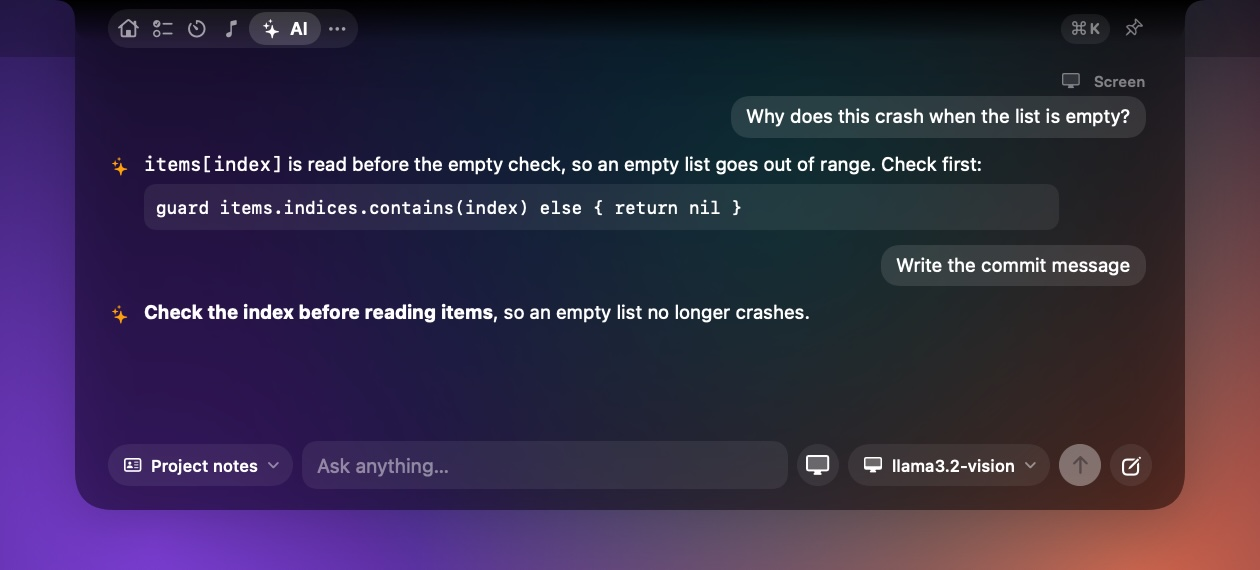
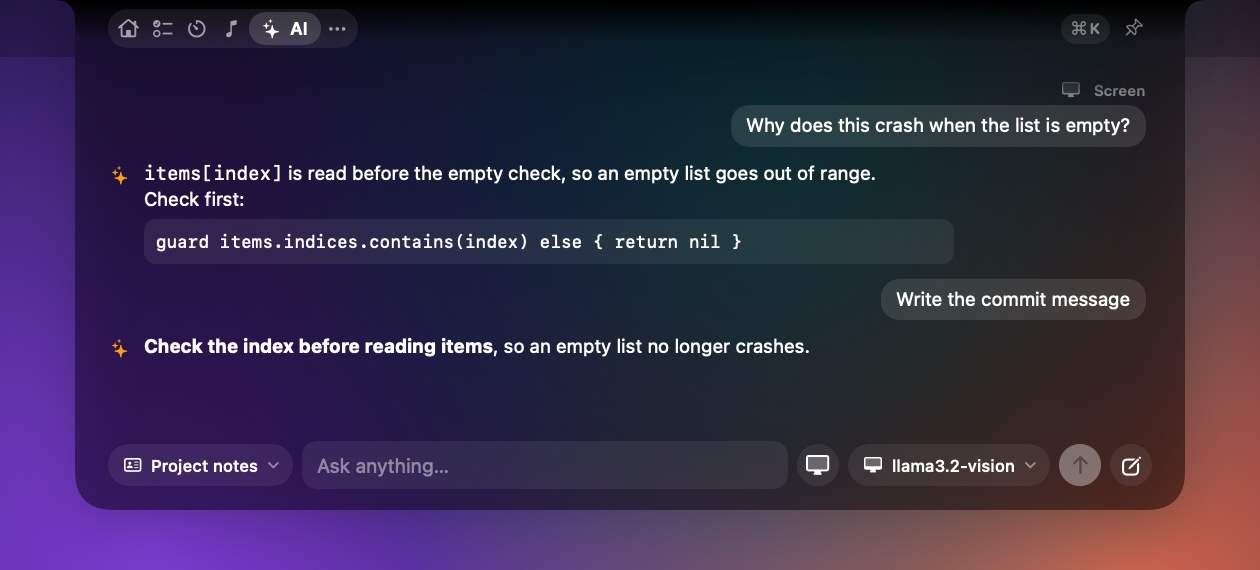
Polish the AI chat for the wide notch
- The model chip is wide enough to keep a long model name readable.
- Answers wrap at about 80 characters and your messages at 440 points,
  instead of running the full width.
- Messages fade out as they scroll up under the tabs.
- The welcome screen spreads across the width: a greeting naming the
  model, and four cards for the shortcut, asking about the screen, the
  active context and where messages go.
- "Try again" and "Set up in Settings" in sentence case, like the rest
  of the notch.
- A debug helper renders the welcome screen without touching your chat.

diff --git a/Sources/Xotch/Modules/AI/AIModule.swift b/Sources/Xotch/Modules/AI/AIModule.swift
@@ -21,7 +21,7 @@ private struct AIChatView: View {
             EmptyStateView(symbol: "sparkles",
                            title: "Connect an AI",
                            message: "Run a model on this Mac with Ollama or LM Studio, or add an API key for Claude, OpenAI or Gemini. Keys stay in your Keychain.",
-                           buttonTitle: "Set Up in Settings") { showSettings() }
+                           buttonTitle: "Set up in Settings") { showSettings() }
         } else {
             VStack(spacing: 8) {
                 Conversation(showSettings: showSettings)
@@ -59,6 +59,15 @@ private struct Conversation: View {
                         Color.clear.frame(height: 1).id("bottom")
                     }
                     .padding(.trailing, 4)
+                    .padding(.top, 6)
+                }
+                // Text scrolling up fades out before it reaches the tabs.
+                .mask {
+                    VStack(spacing: 0) {
+                        LinearGradient(colors: [.clear, .black], startPoint: .top, endPoint: .bottom)
+                            .frame(height: 14)
+                        Color.black
+                    }
                 }
                 .onAppear { proxy.scrollTo("bottom", anchor: .bottom) }
                 .onChange(of: chat.messages.last?.text) { _, _ in proxy.scrollTo("bottom", anchor: .bottom) }
@@ -70,50 +79,70 @@ private struct Conversation: View {
     }
 }
 
+/// Before the first message: what the chat can do, as four cards across
+/// the width, beside a short greeting naming the model in use.
 private struct Welcome: View {
     private var contexts: AIContextStore { .shared }
     private var providers: AIProviderStore { .shared }
 
     var body: some View {
         HStack(alignment: .top, spacing: 18) {
-            Image(systemName: "sparkles")
-                .font(.system(size: 28, weight: .medium))
-                .foregroundStyle(Theme.accent)
-                .frame(width: 44)
             VStack(alignment: .leading, spacing: 8) {
+                Image(systemName: "sparkles")
+                    .font(.system(size: 26, weight: .medium))
+                    .foregroundStyle(Theme.accent)
                 Text("Ask anything")
-                    .font(.system(size: 15, weight: .semibold))
-                VStack(alignment: .leading, spacing: 4) {
-                    hint("keyboard", "⌘⇧Space opens this chat from any app.")
-                    hint("display", "⌘⇧↩ also sends what's on your screen. So does the screen button below.")
-                    if let context = contexts.active {
-                        hint("person.text.rectangle", "Answers use your “\(context.name)” context.")
-                    } else {
-                        hint("person.text.rectangle", "Add a context — a resume, job description or notes — to tailor answers.")
-                    }
-                    if let provider = providers.active {
-                        hint(provider.isLocal ? "lock" : "cloud",
-                             provider.isLocal ? "\(provider.model) runs locally; nothing goes to the internet."
-                                 : "Messages go to \(provider.name).")
-                    }
+                    .font(.system(size: 18, weight: .semibold))
+                if let provider = providers.active {
+                    Label(provider.model, systemImage: provider.isLocal ? "lock.fill" : "cloud.fill")
+                        .font(.system(size: 11, weight: .medium))
+                        .foregroundStyle(Theme.secondaryInk)
+                        .lineLimit(1)
+                        .truncationMode(.middle)
                 }
             }
-            Spacer(minLength: 0)
+            .frame(width: 150, alignment: .leading)
+            .padding(.top, 4)
+            LazyVGrid(columns: [GridItem(.flexible(), spacing: 10), GridItem(.flexible(), spacing: 10)], spacing: 10) {
+                card("keyboard", "From any app", "⌘⇧Space opens this chat wherever you are.")
+                card("display", "About your screen", "⌘⇧↩, or the screen button below, sends what's on screen with your question.")
+                if let context = contexts.active {
+                    card("person.text.rectangle", "Using “\(context.name)”", "Answers draw on this context. Switch it from the menu below.")
+                } else {
+                    card("person.text.rectangle", "Add a context", "A resume, job description or notes, sent with every question.")
+                }
+                if let provider = providers.active {
+                    card(provider.isLocal ? "lock" : "cloud",
+                         provider.isLocal ? "Stays on this Mac" : "Sent to \(provider.name)",
+                         provider.isLocal ? "\(provider.model) runs locally; nothing goes to the internet."
+                             : "Your messages go to \(provider.name) to be answered.")
+                } else {
+                    card("cpu", "Pick a model", "Choose one from the menu below.")
+                }
+            }
         }
-        .padding(.top, 6)
         .frame(maxWidth: .infinity, maxHeight: .infinity, alignment: .topLeading)
     }
 
-    private func hint(_ symbol: String, _ text: String) -> some View {
-        HStack(spacing: 8) {
-            Image(systemName: symbol)
-                .font(.system(size: 10, weight: .semibold))
-                .foregroundStyle(Theme.tertiaryInk)
-                .frame(width: 14)
+    private func card(_ symbol: String, _ title: String, _ text: String) -> some View {
+        VStack(alignment: .leading, spacing: 4) {
+            HStack(spacing: 6) {
+                Image(systemName: symbol)
+                    .font(.system(size: 11, weight: .semibold))
+                    .foregroundStyle(Theme.accent)
+                    .frame(width: 14)
+                Text(title)
+                    .font(.system(size: 12, weight: .semibold))
+                    .lineLimit(1)
+            }
             Text(text)
-                .font(.system(size: 12))
+                .font(.system(size: 11))
                 .foregroundStyle(Theme.secondaryInk)
+                .fixedSize(horizontal: false, vertical: true)
         }
+        .padding(10)
+        .frame(maxWidth: .infinity, minHeight: 74, alignment: .topLeading)
+        .background(Theme.fill, in: RoundedRectangle(cornerRadius: 12, style: .continuous))
     }
 }
 
@@ -139,6 +168,7 @@ private struct MessageRow: View {
                         .padding(.vertical, 6)
                         .background(Theme.raisedFill, in: RoundedRectangle(cornerRadius: 12, style: .continuous))
                 }
+                .frame(maxWidth: 440, alignment: .trailing)
             }
         } else {
             HStack(alignment: .top, spacing: 8) {
@@ -157,10 +187,12 @@ private struct MessageRow: View {
                             .foregroundStyle(message.isError ? Theme.secondaryInk : Theme.ink)
                     }
                     if message.isError {
-                        Button("Try Again") { AIChatService.shared.retry() }
+                        Button("Try again") { AIChatService.shared.retry() }
                             .buttonStyle(PillButtonStyle(prominent: false))
                     }
                 }
+                // About 80 characters a line: easier to read than the full width.
+                .frame(maxWidth: 540, alignment: .leading)
                 Spacer(minLength: 20)
                 Button { AIChatService.shared.copy(message) } label: { Image(systemName: "doc.on.doc") }
                     .buttonStyle(IconButtonStyle(size: 22))
@@ -429,7 +461,8 @@ private struct Chip: View {
             .foregroundStyle(dimmed ? Theme.secondaryInk : Theme.ink)
             .padding(.horizontal, 9)
             .frame(height: 28)
-            .frame(maxWidth: 150)
+            // Wide enough that a model name keeps its distinguishing end.
+            .frame(maxWidth: 220)
             .background(Theme.fill, in: Capsule())
             .contentShape(Capsule())
         }

diff --git a/Sources/Xotch/App/MarketingShots.swift b/Sources/Xotch/App/MarketingShots.swift
@@ -67,6 +67,11 @@ enum MarketingShots {
                 // The chat opens taller than the other modules.
                 save("module-ai", open(AIModule.moduleID),
                      size: CGSize(width: openSize.width, height: Layout.tallOpenHeight + 40), scale: 1.5)
+                // And before the first message.
+                AIChatService.shared.withoutMessages {
+                    save("ai-welcome", open(AIModule.moduleID),
+                         size: CGSize(width: openSize.width, height: Layout.tallOpenHeight + 40), scale: 1.5)
+                }
                 let palette = open("home")
                 palette.isPinned = true
                 palette.palette.isOpen = true

diff --git a/Sources/Xotch/Modules/AI/AIChatService.swift b/Sources/Xotch/Modules/AI/AIChatService.swift
@@ -258,5 +258,13 @@ final class AIChatService {
         body()
         (messages, draft, attachment, notice) = saved
     }
+
+    /// The welcome screen, for snapshots: the chat set aside, then put back.
+    func withoutMessages(_ body: () -> Void) {
+        let saved = messages
+        messages = []
+        body()
+        messages = saved
+    }
     #endif
 }
